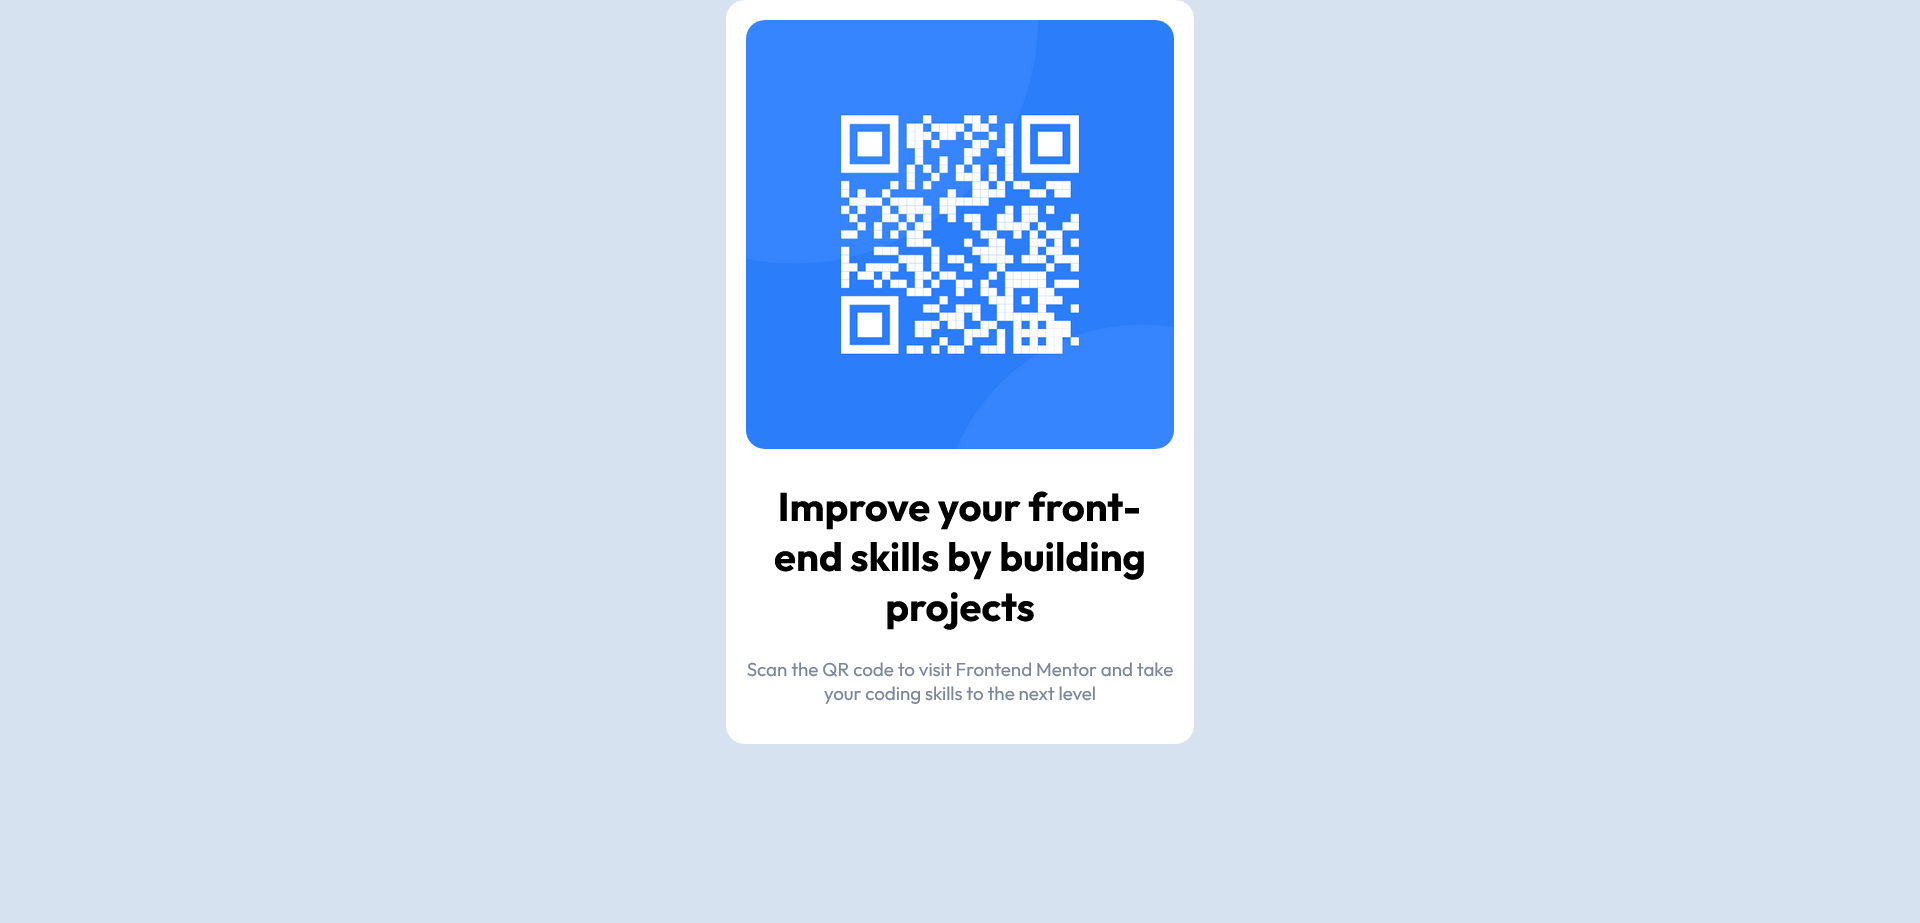
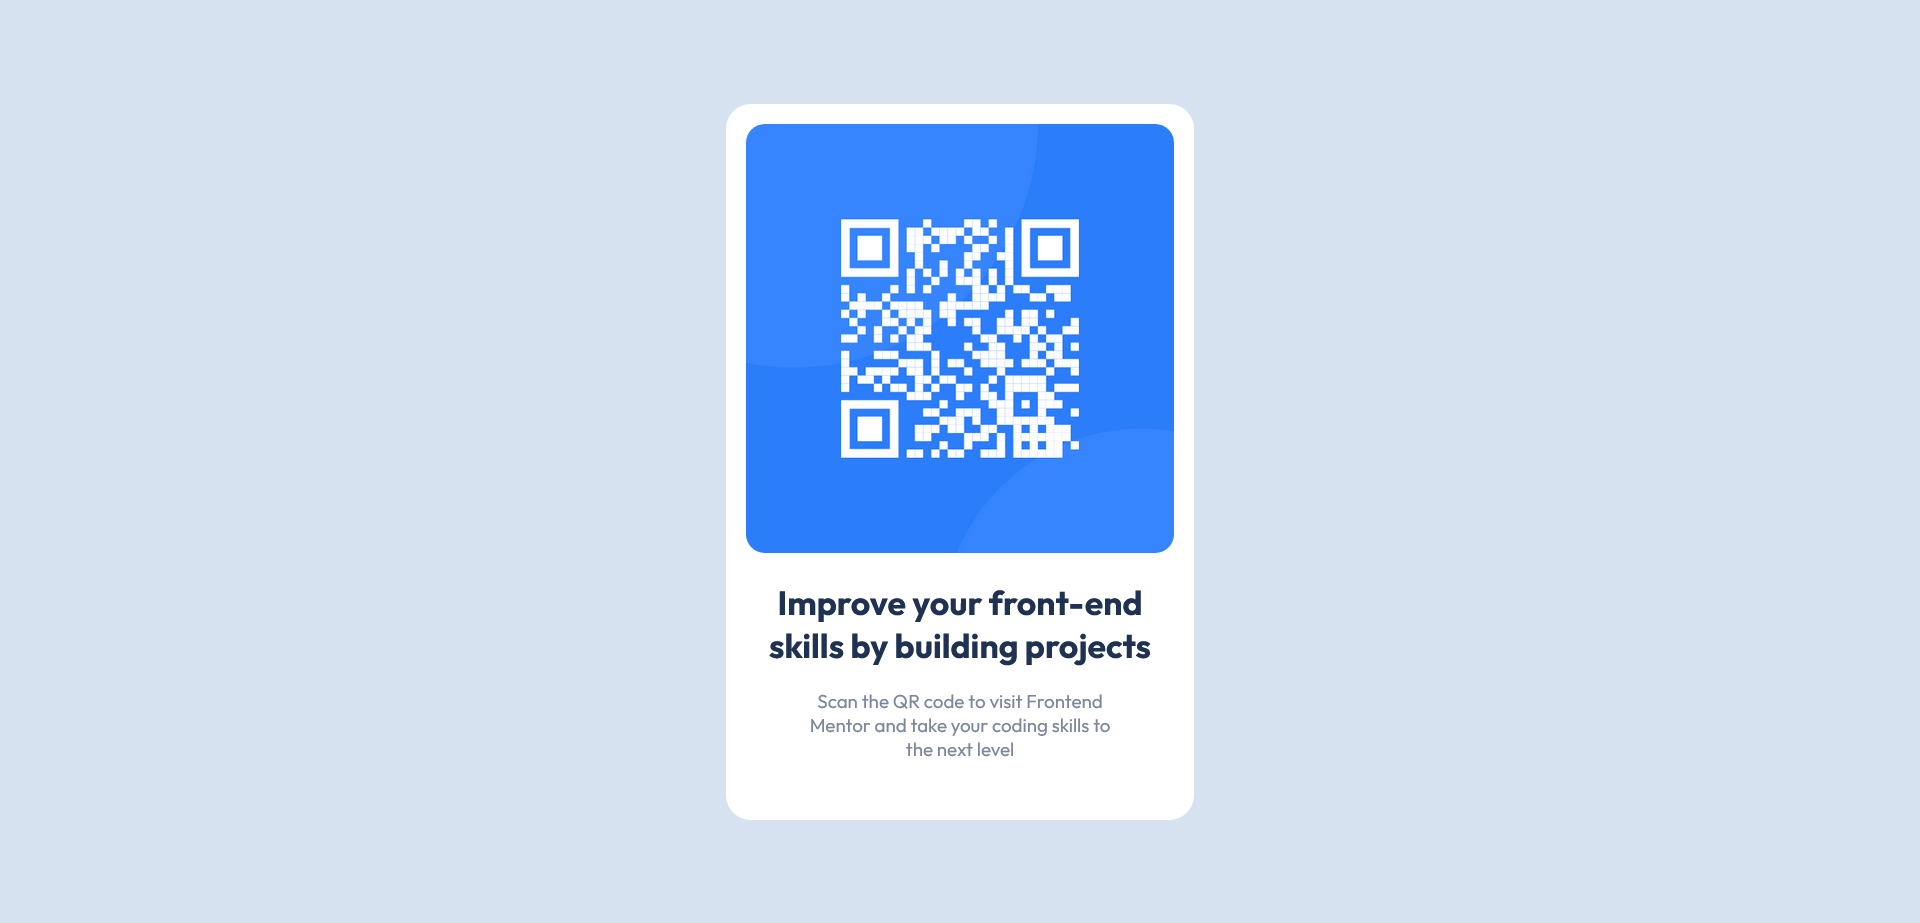
Update screenshot & README

Changed region(s): [[0.375, 0.0, 0.625, 0.9101]]

diff --git a/README.md b/README.md
@@ -40,9 +40,9 @@ I learned today that I should avoid setting heights in my CSS as it loses respon
 
 ```html
 <body>
-  <div class="block">
-    <div class="content">
-      <img src="images/image-qr-code.png" alt="QR-Code picture">
+  <div class="parent">
+    <div class="children">
+      <img src="./images/image-qr-code.png" alt="QR-Code picture">
       <h1>Improve your front-end skills by building projects</h1>
       <p>Scan the QR code to visit Frontend Mentor and take your coding skills to the next level</p>
     </div>
@@ -56,28 +56,44 @@ body {
     margin: 0;
     background: hsl(212, 45%, 89%);
     font-family: Outfit;
+    min-height: 100vh;
+    display: grid;
+    place-content: center;
 }
 
-.block {
+.parent {
     width: 375px;
     margin: 0 auto;
     background: hsl(0, 0%, 100%);
-    padding: 1rem;
-    border-radius: 15px;
+    border-radius: 20px;
 }
 
-.content > img {
+.parent {
+    padding: 1rem;
+}
+
+.children > img {
     width: 100%;
     border-radius: 15px;
 }
 
-.content > h1, p {
+.children > h1, p {
     text-align: center;
+    padding: 0 1rem;
 }
 
-.content > p {
+.children > h1 {
+    color: hsl(218, 44%, 22%);
+    font-size: 27px;
+    font-weight: 800;
+}
+
+.children > p {
     font-size: 15px;
     color:  hsl(220, 15%, 55%);
+    padding-bottom: 1rem;
+    padding-left: 2.5rem;
+    padding-right: 2.5rem;
 }
 ```
 
